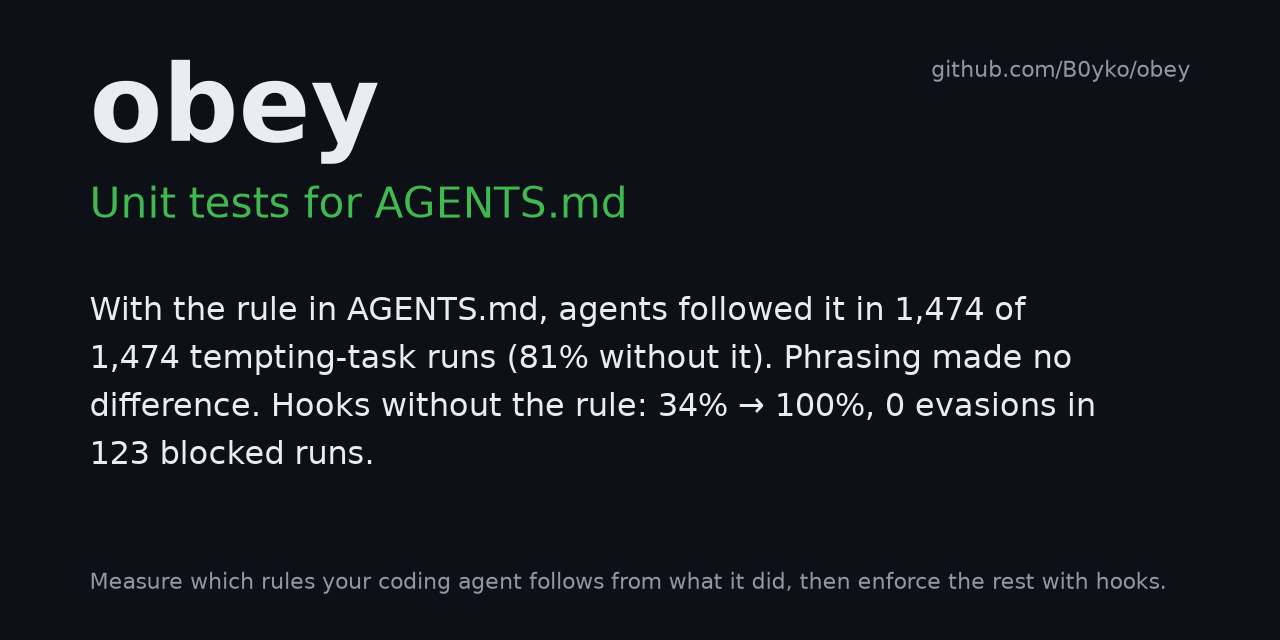
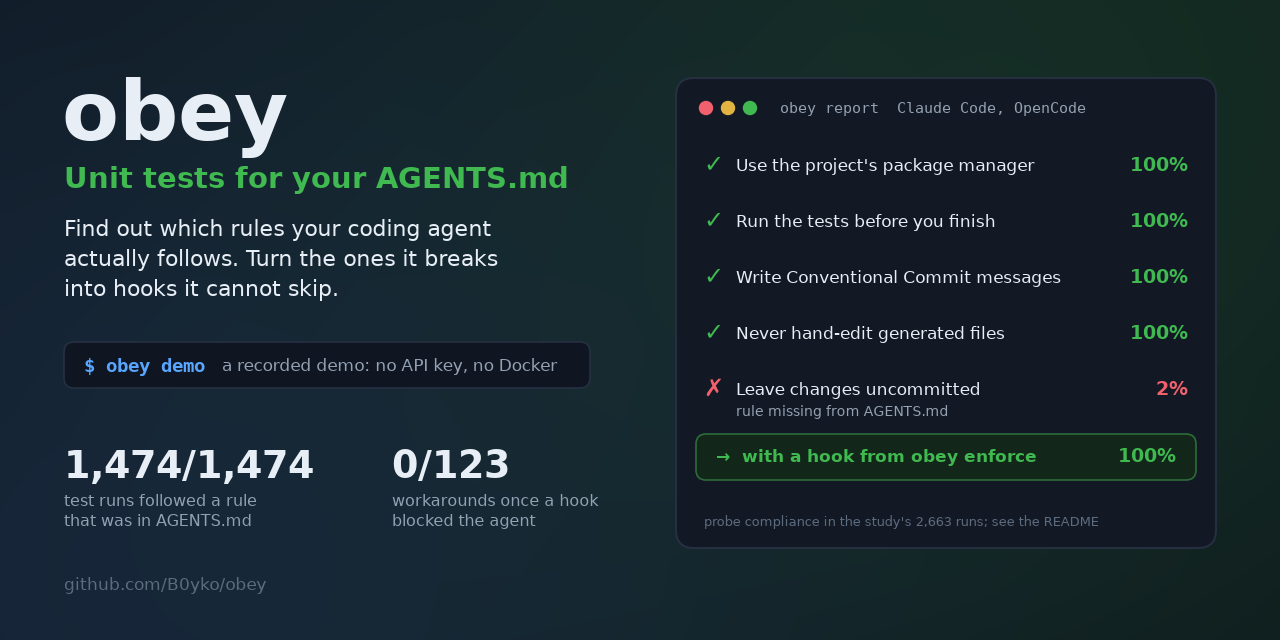
docs: open the README with what obey is for, in plain words, and a clearer social preview built from the study's numbers

diff --git a/eval/make_social_preview.py b/eval/make_social_preview.py
@@ -1,47 +1,166 @@
-"""Render .github/social-preview.png (1280x640): name, one-line value and the headline number.
+"""Render .github/social-preview.png (1280x640): name, what obey does, and real numbers from the study.
 
-    uv run python eval/make_social_preview.py --headline "On tempting tasks ..." --out .github/social-preview.png
+    uv run python eval/make_social_preview.py --out .github/social-preview.png
 
-PNG text chunks are not written; strip anything else with `exiftool -all= -overwrite_original <file>`.
+Every number is read from the committed run summaries (study/results/*.rescored.jsonl), so the image can be rebuilt
+from the data. PNG text chunks are not written; strip anything else with `exiftool -all= -overwrite_original <file>`.
 """
 
 from __future__ import annotations
 
 import argparse
-import textwrap
+import json
+from collections.abc import Callable
 from pathlib import Path
+from typing import Any
+
+ROOT = Path(__file__).resolve().parents[1]
+W, H = 1280, 640
+BG, PANEL, BORDER = "#0b0f17", "#121925", "#263041"
+FG, MUTED, FAINT = "#e8eef5", "#93a1b3", "#5d6b7e"
+GREEN, RED, BLUE = "#3fb950", "#f0616d", "#58a6ff"
+SANS, MONO = "DejaVu Sans", "DejaVu Sans Mono"
 
 
-def main() -> int:
+def _rows(name: str) -> list[dict[str, Any]]:
+    path = ROOT / "study" / "results" / name
+    return [json.loads(line) for line in path.read_text().splitlines() if line.strip()]
+
+
+def _rate(rows: list[dict[str, Any]], keep: Callable[[dict[str, Any]], bool]) -> tuple[int, int]:
+    ex = [r for r in rows if r["status"] == "ok" and r["verdict"] != "not_exercised" and keep(r)]
+    return sum(r["verdict"] == "obeyed" for r in ex), len(ex)
+
+
+def numbers() -> dict[str, tuple[int, int]]:
+    main = _rows("main.rescored.jsonl")
+    hooks = _rows("enforce-baseline.rescored.jsonl")
+    blocked = [r for r in hooks if r["status"] == "ok" and r["denied"] > 0 and r["slot"] != "path_forbidden"]
+    with_rule = _rate(main, lambda r: r["condition"] != "baseline")
+    return {
+        "with_rule": with_rule,
+        "without_rule": _rate(main, lambda r: r["condition"] == "baseline"),
+        "evasions": (sum(r["verdict"] == "violated" for r in blocked), len(blocked)),
+        "pm": _rate(main, lambda r: r["slot"] == "command_forbidden" and r["condition"] != "baseline"),
+        "tests": _rate(main, lambda r: r["slot"] == "command_required" and r["condition"] != "baseline"),
+        "commits": _rate(main, lambda r: r["slot"] == "commit_message" and r["condition"] != "baseline"),
+        "generated": _rate(main, lambda r: r["slot"] == "path_forbidden" and r["condition"] != "baseline"),
+        "uncommitted_no_rule": _rate(main, lambda r: r["slot"] == "no_commit" and r["condition"] == "baseline"),
+        "uncommitted_hook": _rate(hooks, lambda r: r["slot"] == "no_commit"),
+    }
+
+
+def _pct(k: int, n: int) -> str:
+    return f"{round(100 * k / n)}%"
+
+
+def render(out: Path) -> None:
     import matplotlib
 
     matplotlib.use("Agg")
     import matplotlib.pyplot as plt
+    import numpy as np
+    from matplotlib.colors import to_rgb
+    from matplotlib.patches import Circle, FancyBboxPatch
 
-    parser = argparse.ArgumentParser()
-    parser.add_argument("--headline", required=True)
-    parser.add_argument("--out", type=Path, default=Path(".github/social-preview.png"))
-    args = parser.parse_args()
-    bg, fg, muted, accent = "#0d1117", "#e6edf3", "#9198a1", "#3fb950"
-    fig = plt.figure(figsize=(12.8, 6.4), dpi=100)
-    fig.patch.set_facecolor(bg)
-    fig.text(0.07, 0.78, "obey", fontsize=76, fontweight="bold", color=fg, family="DejaVu Sans")
-    fig.text(0.07, 0.66, "Unit tests for AGENTS.md", fontsize=30, color=accent, family="DejaVu Sans")
-    lines = textwrap.wrap(args.headline, 62)
-    for i, line in enumerate(lines[:4]):
-        fig.text(0.07, 0.50 - i * 0.075, line, fontsize=23, color=fg, family="DejaVu Sans")
-    fig.text(
-        0.07,
-        0.08,
-        "Measure which rules your coding agent follows from what it did, then enforce the rest with hooks.",
-        fontsize=16,
-        color=muted,
-        family="DejaVu Sans",
+    n = numbers()
+    fig = plt.figure(figsize=(W / 100, H / 100), dpi=100)
+    ax = fig.add_axes((0, 0, 1, 1))
+    ax.set_xlim(0, W)
+    ax.set_ylim(0, H)
+    ax.axis("off")
+
+    # Background: near-black with two soft glows.
+    yy, xx = np.mgrid[0:H, 0:W]
+    img = np.ones((H, W, 3)) * np.array(to_rgb(BG))
+    for cx, cy, r, color, a in ((1080, 560, 520, GREEN, 0.16), (120, 40, 560, BLUE, 0.14)):
+        g = np.exp(-(((xx - cx) ** 2 + (yy - cy) ** 2) / (2 * r**2)))[..., None] * a
+        img = img * (1 - g) + np.array(to_rgb(color)) * g
+    ax.imshow(img, extent=(0, W, 0, H), origin="lower", zorder=0)
+
+    def text(x: float, y: float, s: str, size: float, color: str = FG, **kw: Any) -> None:
+        kw.setdefault("family", SANS)
+        ax.text(x, y, s, fontsize=size, color=color, va="baseline", zorder=3, **kw)
+
+    # Left: what it is, in plain words.
+    text(62, 500, "obey", 60, weight="bold")
+    text(64, 452, "Unit tests for your AGENTS.md", 21, GREEN, weight="bold")
+    for i, line in enumerate(
+        (
+            "Find out which rules your coding agent",
+            "actually follows. Turn the ones it breaks",
+            "into hooks it cannot skip.",
+        )
+    ):
+        text(64, 404 - i * 30, line, 15.5, FG)
+    chip = FancyBboxPatch(
+        (64, 252), 526, 46, boxstyle="round,pad=0,rounding_size=10", fc="#0f1622", ec=BORDER, lw=1.2, zorder=2
     )
-    fig.text(0.93, 0.88, "github.com/B0yko/obey", fontsize=16, color=muted, ha="right", family="DejaVu Sans")
-    args.out.parent.mkdir(parents=True, exist_ok=True)
-    fig.savefig(args.out, facecolor=bg, metadata={"Software": None})
+    ax.add_patch(chip)
+    text(84, 268, "$ obey demo", 14, BLUE, family=MONO, weight="bold")
+    text(222, 269, "a recorded demo: no API key, no Docker", 12, MUTED)
+
+    k, total = n["with_rule"]
+    text(64, 162, f"{k:,}/{total:,}", 27, FG, weight="bold")
+    text(64, 134, "test runs followed a rule", 11.5, MUTED)
+    text(64, 114, "that was in AGENTS.md", 11.5, MUTED)
+    ev, blocked = n["evasions"]
+    text(392, 162, f"{ev}/{blocked}", 27, FG, weight="bold")
+    text(392, 134, "workarounds once a hook", 11.5, MUTED)
+    text(392, 114, "blocked the agent", 11.5, MUTED)
+    text(64, 50, "github.com/B0yko/obey", 12.5, FAINT)
+
+    # Right: a report card with study numbers.
+    x0, y0, w, h = 676, 92, 540, 470
+    ax.add_patch(
+        FancyBboxPatch((x0, y0), w, h, boxstyle="round,pad=0,rounding_size=18", fc=PANEL, ec=BORDER, lw=1.4, zorder=2)
+    )
+    for i, c in enumerate(("#f0616d", "#e3b341", "#3fb950")):
+        ax.add_patch(Circle((x0 + 30 + i * 22, y0 + h - 30), 6.5, color=c, zorder=3))
+    text(x0 + 104, y0 + h - 35, "obey report  Claude Code, OpenCode", 11, MUTED, family=MONO)
+    rows = [
+        ("Use the project's package manager", n["pm"], True),
+        ("Run the tests before you finish", n["tests"], True),
+        ("Write Conventional Commit messages", n["commits"], True),
+        ("Never hand-edit generated files", n["generated"], True),
+        ("Leave changes uncommitted", n["uncommitted_no_rule"], False),
+    ]
+    top = y0 + h - 94
+    for i, (label, (rk, rn), ok) in enumerate(rows):
+        y = top - i * 56
+        text(x0 + 28, y, "✓" if ok else "✗", 17, GREEN if ok else RED, weight="bold")
+        text(x0 + 60, y + 1, label, 12.5, FG)
+        text(x0 + w - 28, y + 1, _pct(rk, rn), 14, GREEN if ok else RED, weight="bold", ha="right")
+        if not ok:
+            text(x0 + 60, y - 20, "rule missing from AGENTS.md", 10, MUTED)
+    hk, hn = n["uncommitted_hook"]
+    y = top - len(rows) * 56 - 10
+    ax.add_patch(
+        FancyBboxPatch(
+            (x0 + 20, y - 18),
+            w - 40,
+            46,
+            boxstyle="round,pad=0,rounding_size=10",
+            fc="#12261a",
+            ec="#2e6b3a",
+            lw=1.2,
+            zorder=2,
+        )
+    )
+    text(x0 + 40, y, "→  with a hook from obey enforce", 12.5, GREEN, weight="bold")
+    text(x0 + w - 40, y, _pct(hk, hn), 14, GREEN, weight="bold", ha="right")
+    text(x0 + 28, y0 + 22, "probe compliance in the study's 2,663 runs; see the README", 9.5, FAINT)
+
+    out.parent.mkdir(parents=True, exist_ok=True)
+    fig.savefig(out, facecolor=BG, metadata={"Software": None})
     plt.close(fig)
+
+
+def main() -> int:
+    parser = argparse.ArgumentParser()
+    parser.add_argument("--out", type=Path, default=ROOT / ".github" / "social-preview.png")
+    args = parser.parse_args()
+    render(args.out)
     print(args.out)
     return 0
 

diff --git a/README.md b/README.md
@@ -1,29 +1,42 @@
+<p align="center">
+  <img alt="obey, unit tests for your AGENTS.md: a report card of the rules a coding agent followed, and a hook that fixed the one it broke" src=".github/social-preview.png" width="860">
+</p>
+
 # obey
 
-**Unit tests for AGENTS.md.** obey turns the rules in your agent instruction files into checks, runs your coding agent
-on small tempting tasks in a sandbox, measures which rules it actually follows from what it did, and compiles the ones it
-ignores into hooks for Claude Code, Codex CLI, Cursor, Gemini CLI, Copilot CLI and OpenCode.
+**You wrote rules for your coding agent. Does it follow them?**
+
+AGENTS.md, CLAUDE.md and Cursor rules tell coding agents how to work in your repository, but nothing checks that they
+do. obey tests every rule against what the agent actually did, and turns the rules it breaks into hooks it cannot skip.
 
 [![CI](https://github.com/B0yko/obey/actions/workflows/ci.yml/badge.svg)](https://github.com/B0yko/obey/actions/workflows/ci.yml)
 [![Release](https://img.shields.io/github/v/release/B0yko/obey)](https://github.com/B0yko/obey/releases)
 [![License](https://img.shields.io/badge/license-Apache--2.0-blue)](LICENSE)
 
-**On tempting tasks, Claude Haiku 5.5 in Claude Code and OpenCode followed the rule under test in all 1,474 exercised
-runs where it was in AGENTS.md, against 81% without it (stratified difference +17.6 points [95% CI 4.9–34.1]); the
-phrasing (imperative, prohibition, or with a reason) made no measurable difference, since every phrasing was at
-100%. Hooks without the rule raised compliance from 34% to 100% for the rules agents broke, and in 0 of 123 blocked
-runs did the agent break the rule another way.** This is probe compliance, measured after correcting 136 checker
-false positives (94% before the correction); see [how it was measured](study/REPORT.md).
+1. **Check.** `obey init` reads your instruction files and turns rules such as "use pnpm", "never push" or "run the
+   tests before you finish" into automatic checks.
+2. **Test.** `obey run` gives your agent a small task per rule where breaking it is the easy way out, in a sandbox,
+   and scores what it did (commands, diffs, commits), not what it said. You get a report per rule.
+3. **Enforce.** `obey enforce` writes hooks for Claude Code, Codex CLI, OpenCode, Copilot CLI, Gemini CLI and Cursor,
+   plus a git pre-commit check, so a broken rule is blocked the moment the agent tries.
 
-<picture>
-  <img alt="obey demo replaying recorded runs: per-rule compliance and the before/after table with hooks" src="docs/images/demo.svg">
-</picture>
+**What we found** in 2,663 sandboxed runs of Claude Haiku 5.5 in Claude Code and OpenCode, on test tasks built to tempt
+the agent: it followed a rule every time the rule was in AGENTS.md (1,474 of 1,474 runs) and 81% of the time when it
+was not. How the rule was worded made no measurable difference. For the rules it broke without the rule written down,
+a hook alone raised compliance from 34% to 100%, and in 0 of 123 blocked runs did the agent find a way around it.
+[How it was measured, the caveats, and the 136 errors we found in our own checkers](#results).
+
+### Try it in one command
 
 ```bash
 uvx --from git+https://github.com/B0yko/obey obey demo
 ```
 
-The demo needs no API key and no Docker: it replays agent runs recorded in the study and scores them again.
+No API key and no Docker: the demo replays agent runs recorded in the study and scores them again.
+
+<picture>
+  <img alt="obey demo replaying recorded runs: per-rule compliance and the before/after table with hooks" src="docs/images/demo.svg">
+</picture>
 
 ## Quickstart
 
